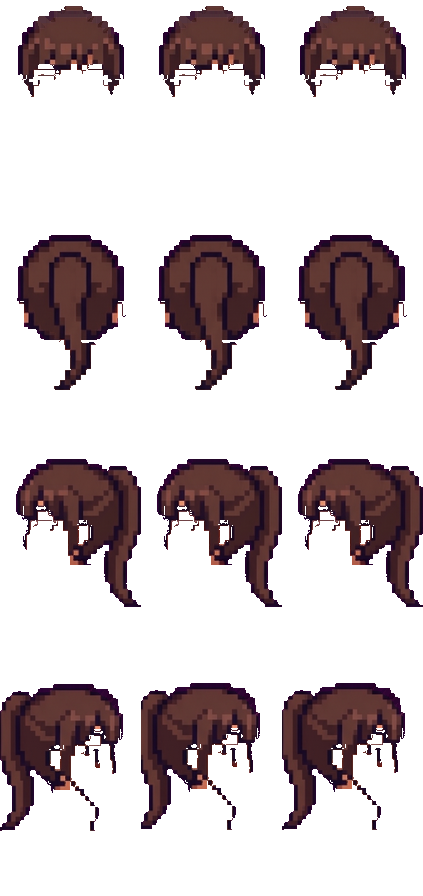
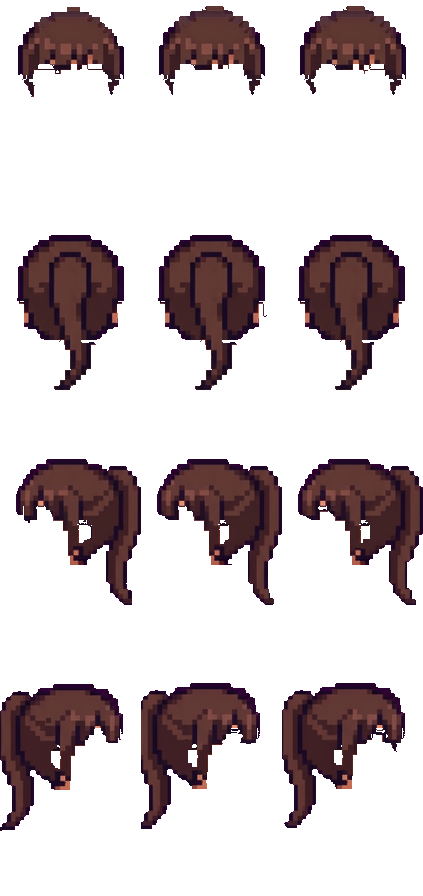
feat(char): 여자 포니테일 헤어 추가 (15머피)
파이프라인: 마젠타 원본 -> nukki_solid(배경) -> strip_wm_r3c2(제미나이 ✦)
 -> despill_magenta(분홍 테두리) -> 기준시트 크기로 리샘플 -> build_hair_layer
 -> 대표가 리터치 스튜디오에서 얼굴 잔재 정리(3,391px 제거)

★리샘플이 필요했던 이유: 소스가 1408x2986 인데 차분 기준 시트는 1123x2400 이다.
  hair_mask 는 같은 크기에서 픽셀 차분을 하므로 크기가 다르면 아예 안 돈다.
  다만 리샘플로 얼굴이 1~2px 밀려서 그만큼이 '머리'로 잡혔고(우향 눈 위 검은 얼룩),
  그 잔재를 대표가 손으로 걷어냈다. 합성 미리보기로 4방향 전부 확인 후 등록.

hatVariants 는 일부러 비웠다 — 조합 시트가 없어서, 넣어두면 모자를 되살리는 순간
없는 파일을 가리켜 머리가 통째로 사라진다.

부수: 리터치 스튜디오 목록에 포니테일 추가, char/despill_magenta.py 신설
_ITEM_V 119 -> 120

diff --git a/index.html b/index.html
@@ -2087,6 +2087,10 @@ window.CHAR_ITEMS = [
   // { id: 'hair_f_bob_bang', slot: 'hair', body: 'human_f', name: '앞머리 단발', price: 30, sheet: 'char/items/hair_f_bob_bang.png', thumb: 'char/items/hair_f_bob_bang_thumb.png', hatVariants: { hat_f_beanie: 'char/items/hair_f_bob_bang__hat_f_beanie.png', hat_f_ladodgers: 'char/items/hair_f_bob_bang__hat_f_ladodgers.png' } },
 
   { id: 'hair_f_long', slot: 'hair', body: 'human_f', name: '긴 생머리', price: 15, sheet: 'char/items/hair_f_long.png', thumb: 'char/items/hair_f_long_thumb.png', hatVariants: { hat_f_beanie: 'char/items/hair_f_long__hat_f_beanie.png', hat_f_ladodgers: 'char/items/hair_f_long__hat_f_ladodgers.png' } },
+  // 포니테일(2026-08-05). 값은 같은 급인 긴 생머리에 맞춰 15.
+  // ★hatVariants 를 일부러 비운다 — 조합 시트가 아직 없다. 넣어두면 모자를 되살리는 순간
+  //   없는 파일을 가리켜 머리가 통째로 사라진다.
+  { id: 'hair_f_ponytail', slot: 'hair', body: 'human_f', name: '포니테일', price: 15, sheet: 'char/items/hair_f_ponytail.png', thumb: 'char/items/hair_f_ponytail_thumb.png' },
   // ★모자 4종을 잠시 내린다 (2026-08-03, 대표 결정).
   //   헤어×모자 조합 품질이 아직 안 나온다 → 출시 진도를 먼저 뺀다.
   //   되살릴 때는 이 줄들의 주석만 풀면 된다. 단 **조합 품질을 먼저 확인할 것** —
@@ -2125,7 +2129,7 @@ window.CHAR_ITEMS = [
   // { id: 'hat_f_ladodgers', slot: 'hat', body: 'human_f', name: 'LA 볼캡', price: 0, sheet: 'char/items/hat_f_ladodgers.png', thumb: 'char/items/hat_ladodgers_thumb.png', hairVariants: { hair_f_basic: null, hair_f_bob_bang: null, hair_f_long: null } }
 ];
 // 아이템 이미지 캐시버전 — 아이템 시트/썸네일 바꿀 때마다 올리면 SW 캐시 무시하고 새로 받음
-window._ITEM_V = 119;
+window._ITEM_V = 120;
 window._iv = function (u) { return u ? (u + (u.indexOf('?') < 0 ? '?v=' : '&v=') + (window._ITEM_V || 1)) : u; };
 window.CHAR_FREE = ['hair_short', 'top_tee', 'mask_simple'];
 window.CHAR_SHAPES = {
@@ -7841,7 +7845,7 @@ document.getElementById('create-crew-panel').querySelector('.back-btn').addEvent
 
 // ===== 서비스 워커 등록 (PWA 홈화면 설치) =====
 // ★배포할 때 sw.js 의 murpy-vNNN 과 **같은 숫자로** 올릴 것. 이게 CDN 캐시를 깬다.
-window._SW_V = '367';
+window._SW_V = '368';
 // 마이페이지 하단 앱 정보에 현재 버전 표시
 try {
   window.addEventListener('load', function () {

diff --git a/tools/asset-studio/retouch.html b/tools/asset-studio/retouch.html
@@ -268,6 +268,7 @@ const ITEMS=[
  {id:'hair_f_basic',slot:'hair',body:'human_f',name:'여자 기본헤어'},
  {id:'hair_f_bob_bang',slot:'hair',body:'human_f',name:'앞머리 단발'},
  {id:'hair_f_long',slot:'hair',body:'human_f',name:'긴 생머리'},
+ {id:'hair_f_ponytail',slot:'hair',body:'human_f',name:'★포니테일 (잔재 정리중)'},
  {id:'hat_beanie',slot:'hat',body:'human',name:'GBD 비니'},
  {id:'hat_ladodgers',slot:'hat',body:'human',name:'LA 볼캡'},
  {id:'acc_airpodsmax',slot:'acc',body:'human',name:'에어팟 맥스'},

diff --git a/sw.js b/sw.js
@@ -1,7 +1,7 @@
 // 배포마다 이 버전을 올려야 자동 새버전 적용(새로고침)이 동작함
-const CACHE_NAME = 'murpy-v367';
-const STATIC_CACHE = 'murpy-static-v367';
-const CDN_CACHE = 'murpy-cdn-v367';
+const CACHE_NAME = 'murpy-v368';
+const STATIC_CACHE = 'murpy-static-v368';
+const CDN_CACHE = 'murpy-cdn-v368';
 // 이미지 캐시는 버전 안 붙임 → 코드/HTML 배포해도 유지(URL이 곧 버전)
 const IMG_CACHE = 'murpy-img';
 
